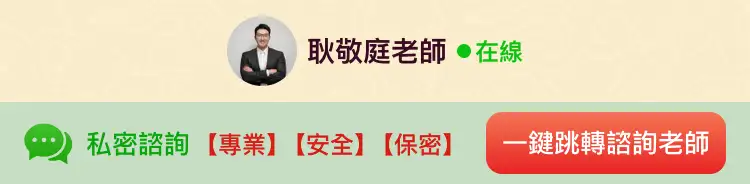
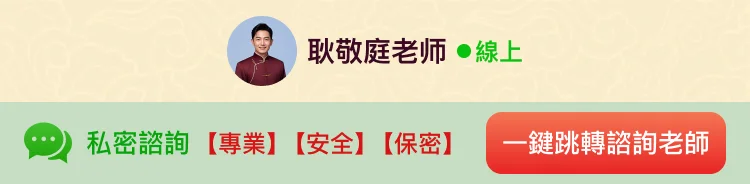
BugFix:图片资源更换

diff --git a/src/libs/utils.js b/src/libs/utils.js
@@ -186,7 +186,7 @@ const getFBChannel = () => {
   } else if (url.indexOf('/gatherone16/') > -1) {
     return 'gatherone16';
   } else {
-    return 'mlzyy308';
+    return 'ads10';
   }
 };
 
